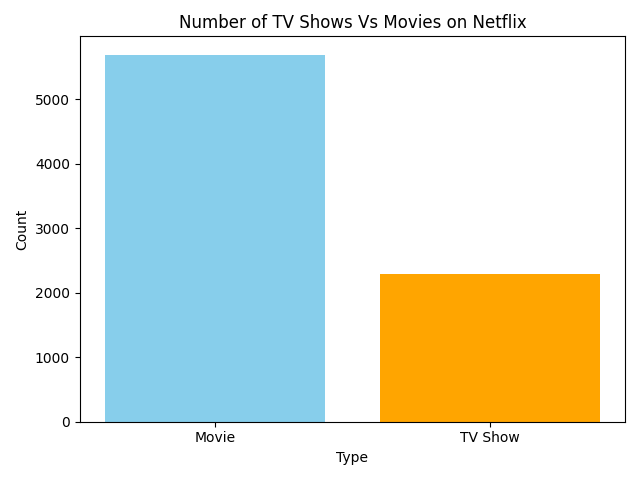
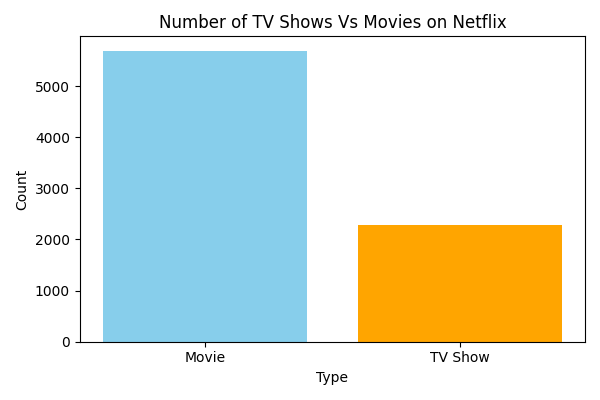
Practice list comprehensions

Changed region(s): [[0.03, 0.03, 0.99, 0.93], [0.6, 0.54, 0.93, 0.57], [0.51, 0.93, 0.6, 0.99]]

diff --git a/Netfilx_DataVisualization.py b/Netfilx_DataVisualization.py
@@ -12,11 +12,24 @@ df = df.dropna(subset = ['type', 'release_year', 'rating', 'country', 'duration'
 type_counts = df['type'].value_counts()
 
 #Bar chart
-# plt.figure(figsize=(6, 4))
+plt.figure(figsize=(6, 4))
 plt.bar(type_counts.index, type_counts.values, color = ['skyblue', 'orange'] )
 plt.title("Number of TV Shows Vs Movies on Netflix")
 plt.xlabel("Type")
 plt.ylabel("Count")
 plt.tight_layout()
 plt.savefig('movies_vs_tvshows.png')
+# plt.show()
+
+
+#Pie Chart
+rating_counts = df['rating'].value_counts()
+plt.figure(figsize=(8,6))
+plt.pie(rating_counts, labels=rating_counts.index, autopct="%1.1f", startangle=90)
+plt.title("Content Rating")
+plt.tight_layout()
+plt.savefig("content_rating.png")
 plt.show()
+
+
+

diff --git a/list_comprehension.py b/list_comprehension.py
@@ -1,0 +1,12 @@
+nums = [1, 2, 3, 4, 5]
+
+squares = [i*i for i in nums]
+print(squares)
+
+even = [i for i in nums if i%2 == 0]
+print(even)
+
+only_even = [i if i%2 == 0 else 0 for i in nums]
+print(only_even)
+
+
